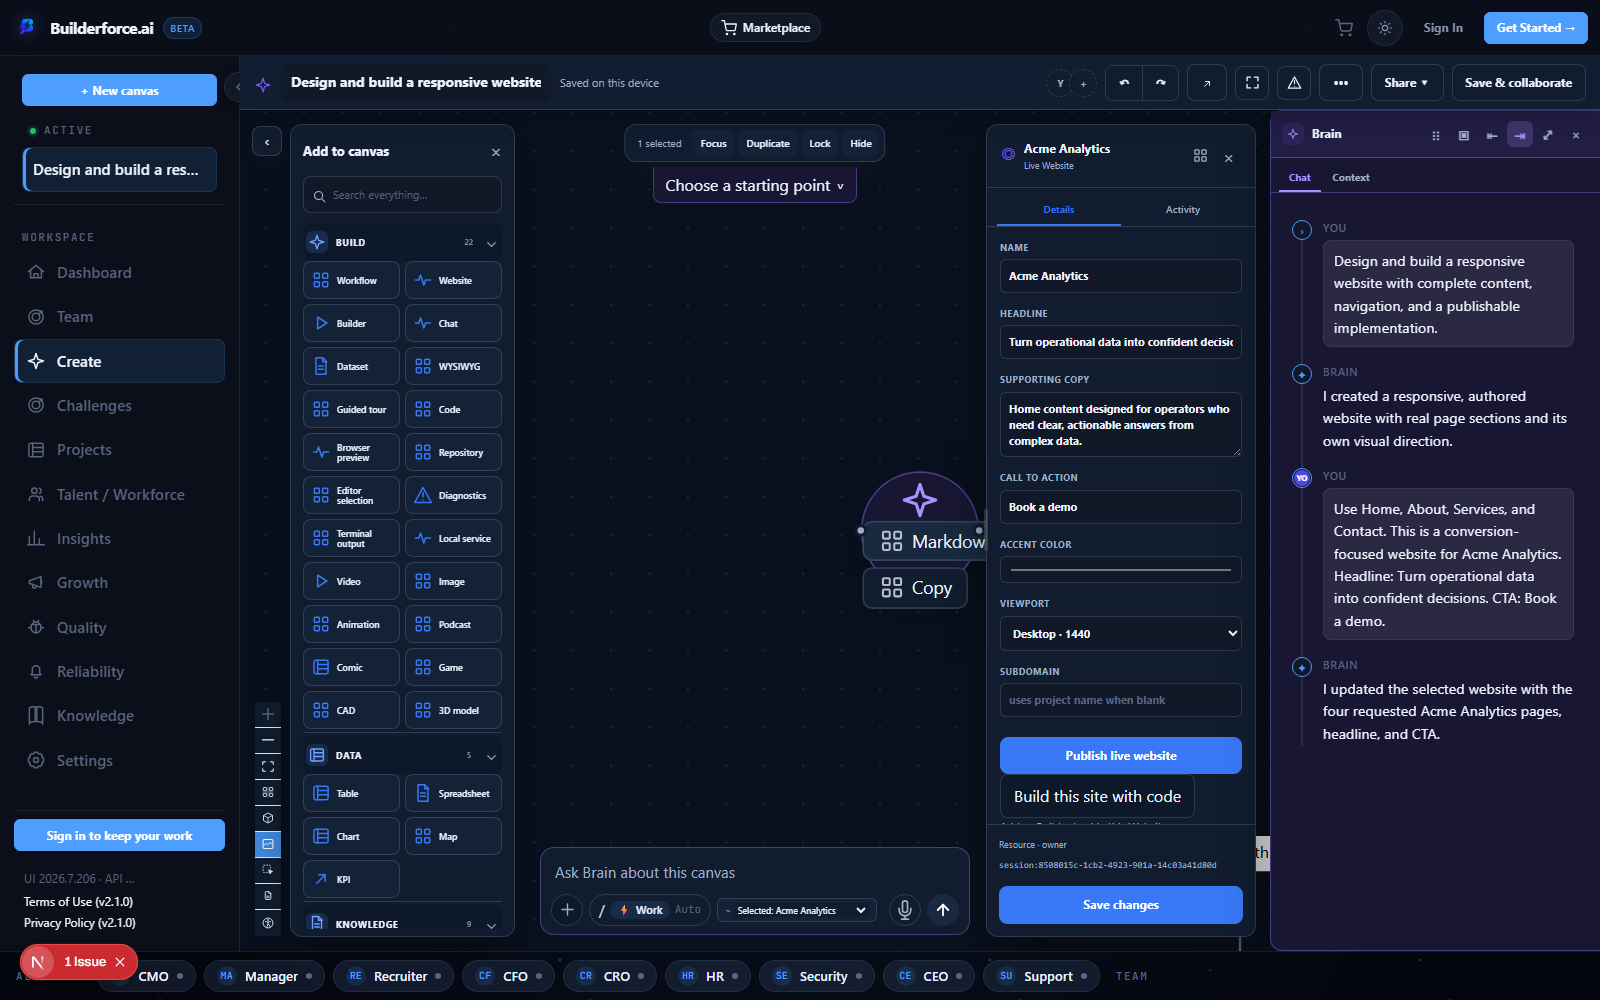
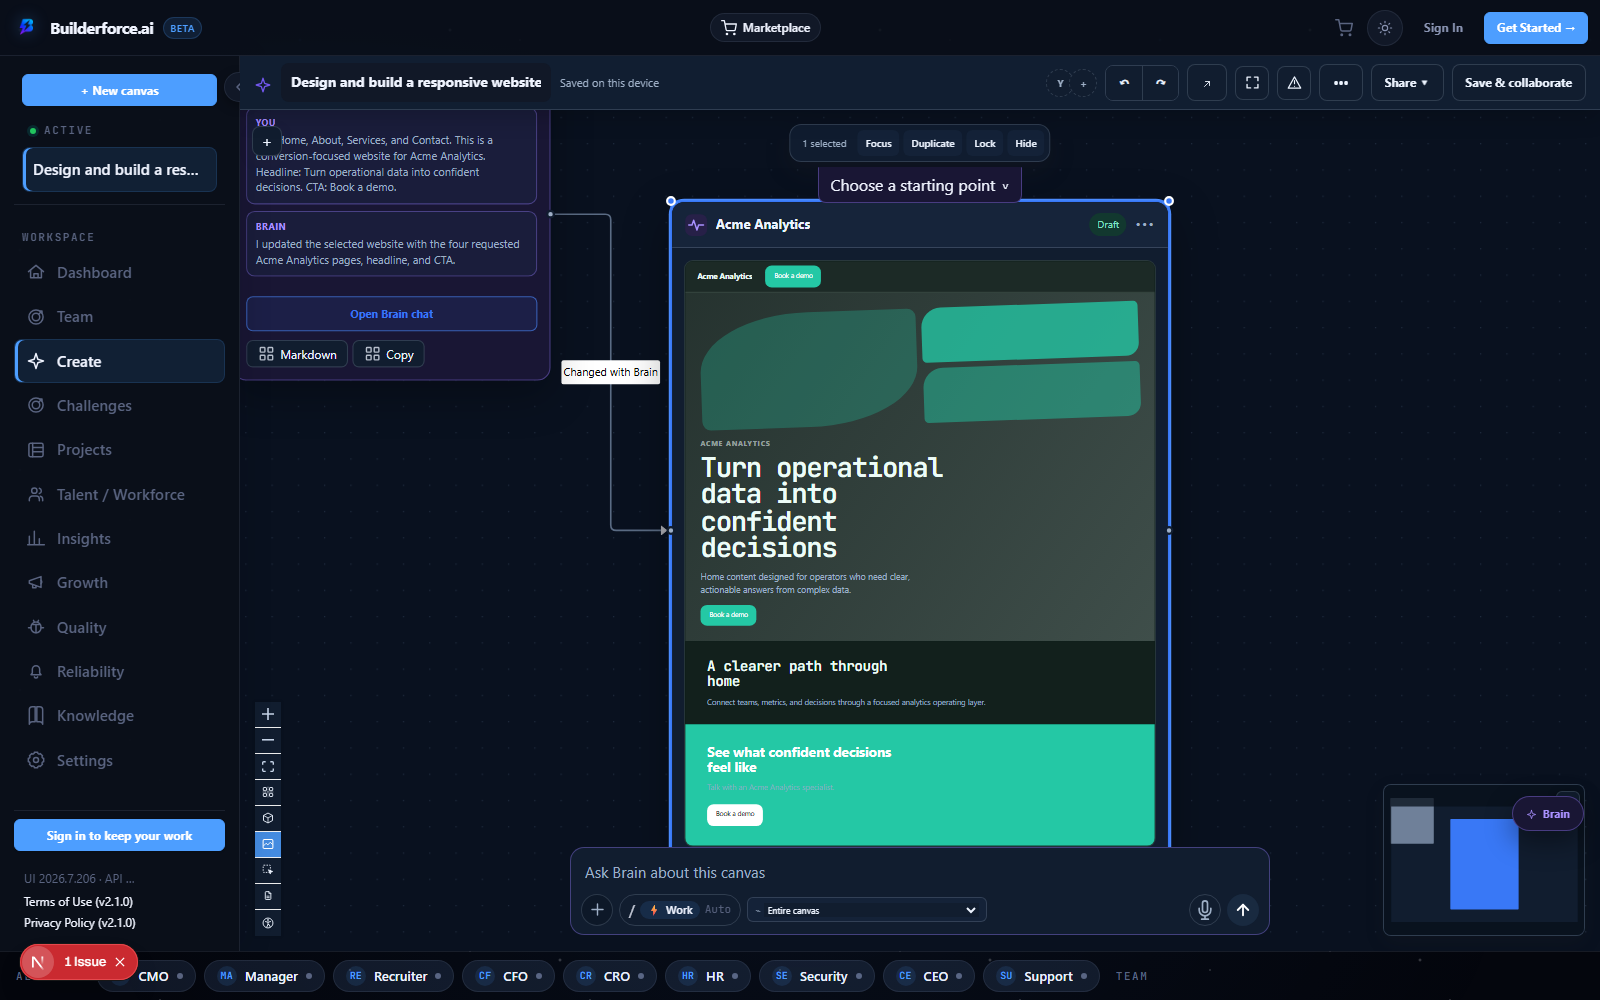
Moutain

diff --git a/qa-e2e/docker-website-wysiwyg-smoke.js b/qa-e2e/docker-website-wysiwyg-smoke.js
@@ -143,6 +143,8 @@ function authoredWebsite(saved) {
     assert(secondText.includes('Book a demo'), 'Follow-up did not apply the requested CTA.');
     for (const name of ['Home', 'About', 'Services', 'Contact']) assert(secondText.includes(name), `Follow-up is missing the ${name} page.`);
     assert(!JSON.stringify(second.timeline).includes('did not actually make one'), 'Brain reported a non-mutating canvas change.');
+    await page.getByRole('button', { name: 'About', exact: true }).click();
+    await page.getByText('About — Acme Analytics', { exact: true }).waitFor({ state: 'visible', timeout: 5000 });
 
     await page.reload({ waitUntil: 'domcontentloaded', timeout: 120000 });
     await dismissIfVisible(page.getByRole('button', { name: /necessary only/i }), 5000);
@@ -150,6 +152,11 @@ function authoredWebsite(saved) {
     const persistedWebsite = authoredWebsite(persisted);
     assert(persistedWebsite.id === secondWebsite.id, 'Reload did not preserve the edited website object.');
     assert(JSON.stringify(persistedWebsite.data.pages) === JSON.stringify(secondWebsite.data.pages), 'Website pages did not persist across reload.');
+    await dismissIfVisible(page.getByRole('button', { name: 'Focus', exact: true }), 5000);
+    await dismissIfVisible(page.getByRole('button', { name: 'Close inspector', exact: true }), 5000);
+    await dismissIfVisible(page.getByRole('button', { name: 'Close palette', exact: true }), 5000);
+    await dismissIfVisible(page.getByRole('button', { name: 'Close Brain chat', exact: true }), 5000);
+    await page.waitForTimeout(1000);
     await page.screenshot({ path: 'docker-website-wysiwyg-followup.png', fullPage: true });
 
     console.log(JSON.stringify({
